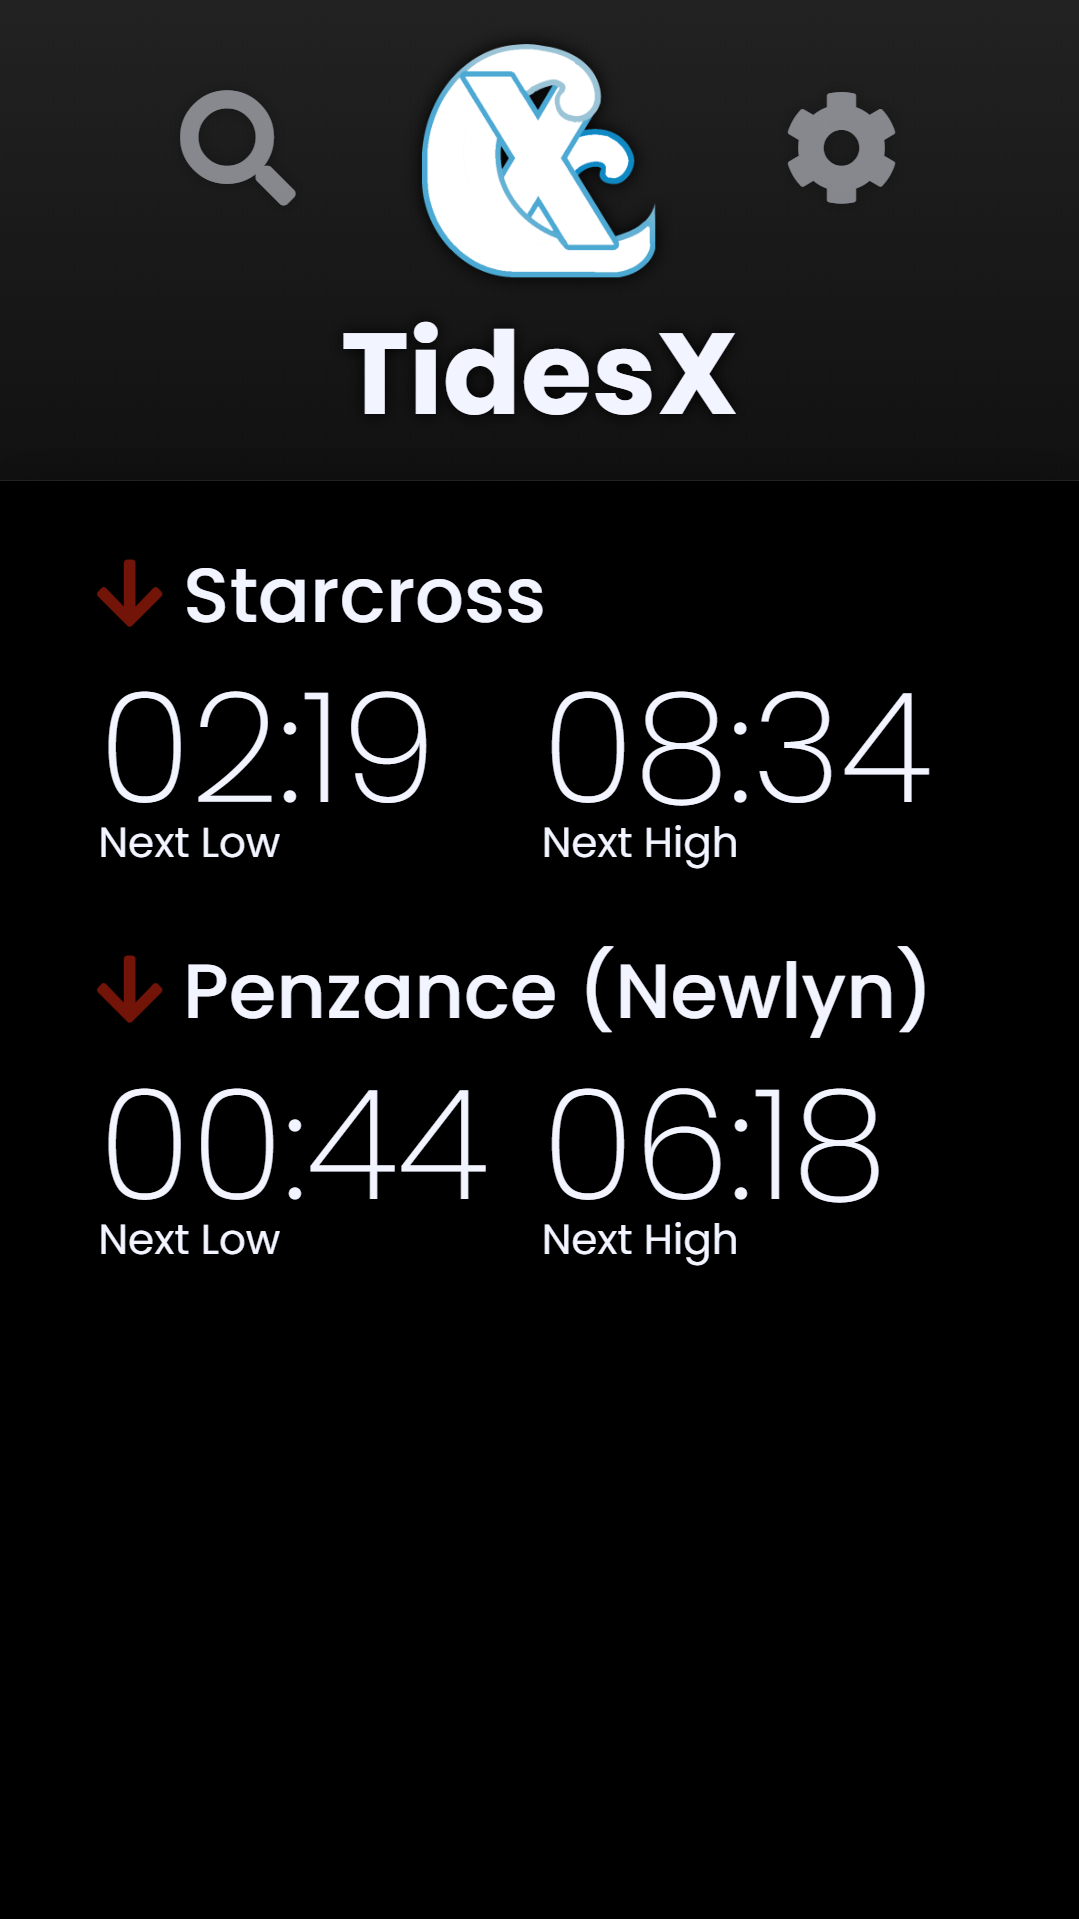
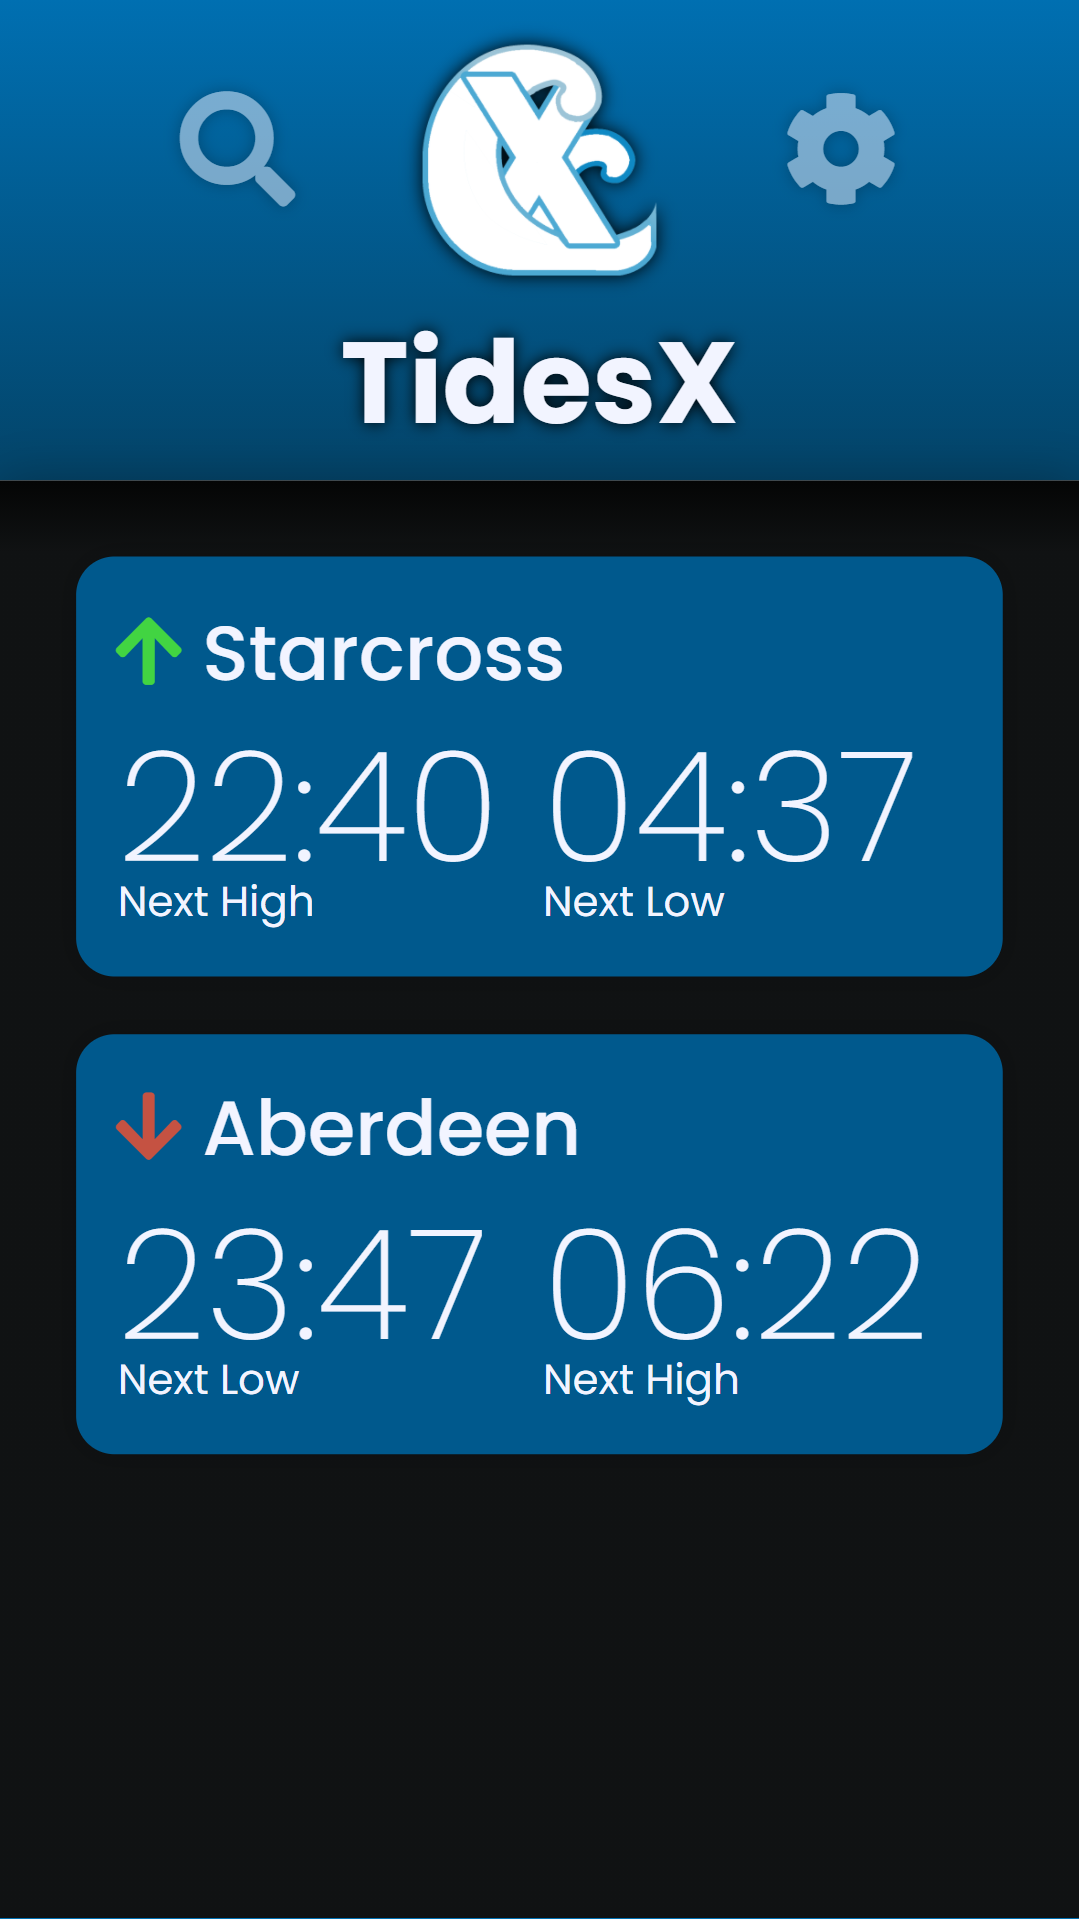
Fixed some visual bugs and updated screenshots

diff --git a/style.css b/style.css
@@ -9,6 +9,7 @@
   --darker-background-color: #007bc2;
   --darkest-background-color: #d6f0ff;
   --gradient-top-color: #8aa9bb;
+  --search-top-color: #8aa9bb;
   --block-color: #e3f4ff;
   --button-color: #f2f4ff;
   --arrow-up: #087308;
@@ -21,6 +22,7 @@
   --lighter-background-color: #006fb1;
   --darker-background-color: #034469;
   --darkest-background-color: #101213;
+  --search-top-color: #1f2324;
   --gradient-top-color: #040505;
   --block-color: #00598d;
   --button-color: #313638;
@@ -93,7 +95,7 @@ html { overscroll-behavior: contain; }
   text-overflow: ellipsis;
   white-space: nowrap;
   box-sizing: border-box;
-  padding: 1vh;
+  padding: 0.5vh 1vh 1vh;
 }
 
 #main {
@@ -260,6 +262,12 @@ button:active {
   height: 10vh;
   font-family: Poppins;
   font-size: 5vh;
+  color: var(--standard-text-color);
+  background: linear-gradient(
+    to bottom,
+    var(--search-top-color) 0%,
+    var(--button-color) 25%
+  );
   box-sizing: border-box;
   padding: 3vh;
   border: none;
@@ -374,7 +382,13 @@ input:checked + .slider:before {
   bottom: 0;
   left: 0;
   width: 100vw;
-  height: 20vh;
+  height: 21vh;
   box-sizing: border-box;
   padding: 3vh;
+  font-size: 2.5vh;
+}
+
+a:link, a:visited, a:hover, a:active {
+  color: inherit;
+  text-decoration: underline;
 }

diff --git a/index.html b/index.html
@@ -98,6 +98,7 @@
       <div class="linksAndThanks">
         Thank you for using TidesX!<br>
         &copy; William Henderson 2020.<br>
+        Tide data &copy; <a href="https://www.admiralty.co.uk/ukho/About-Us">UK Hydrographic Office</a>.<br>
         Visit the <a href="https://github.com/w-henderson/TidesX">GitHub</a>.
       </div>
     </div>

diff --git a/README.md b/README.md
@@ -6,13 +6,10 @@ A quick and easy way to check the tide times.
 [<img src="images/trailer_thumbnail.png" width=600>](https://www.youtube.com/watch?v=vz3CJ-kDiPc)
 
 ## What is TidesX?
-TidesX is an app to check the tide times. It has a clean and beautiful interface and intuitive design, so the information you need is never more than a tap away.
-
-## Where does TidesX get its data from?
-TidesX gets its data directly from the UK Hydrographic Office through their Admiralty API. It's limited to 20k requests per month, but I'd be surprised if we ever meet that limit.
+TidesX is an intuitive and easy-to-use web app for checking the tide times anywhere in the UK. It features predictions and current information for over 600 coastal locations, taken straight from the UK Hydrographic Office.
 
 ## Sounds good, where can I get it?
-TidesX is available on GitHub Pages, where you need to install it as a web app. This means opening it in your browser [here](https://w-henderson.github.io/TidesX), then adding it to your home screen.
+**TidesX will be available on the Google Play store from late December**, but for now, TidesX is available on GitHub Pages, where you need to install it as a web app. This means opening it in your browser [here](https://w-henderson.github.io/TidesX), then adding it to your home screen.
 
 # Screenshots
 | | | |
